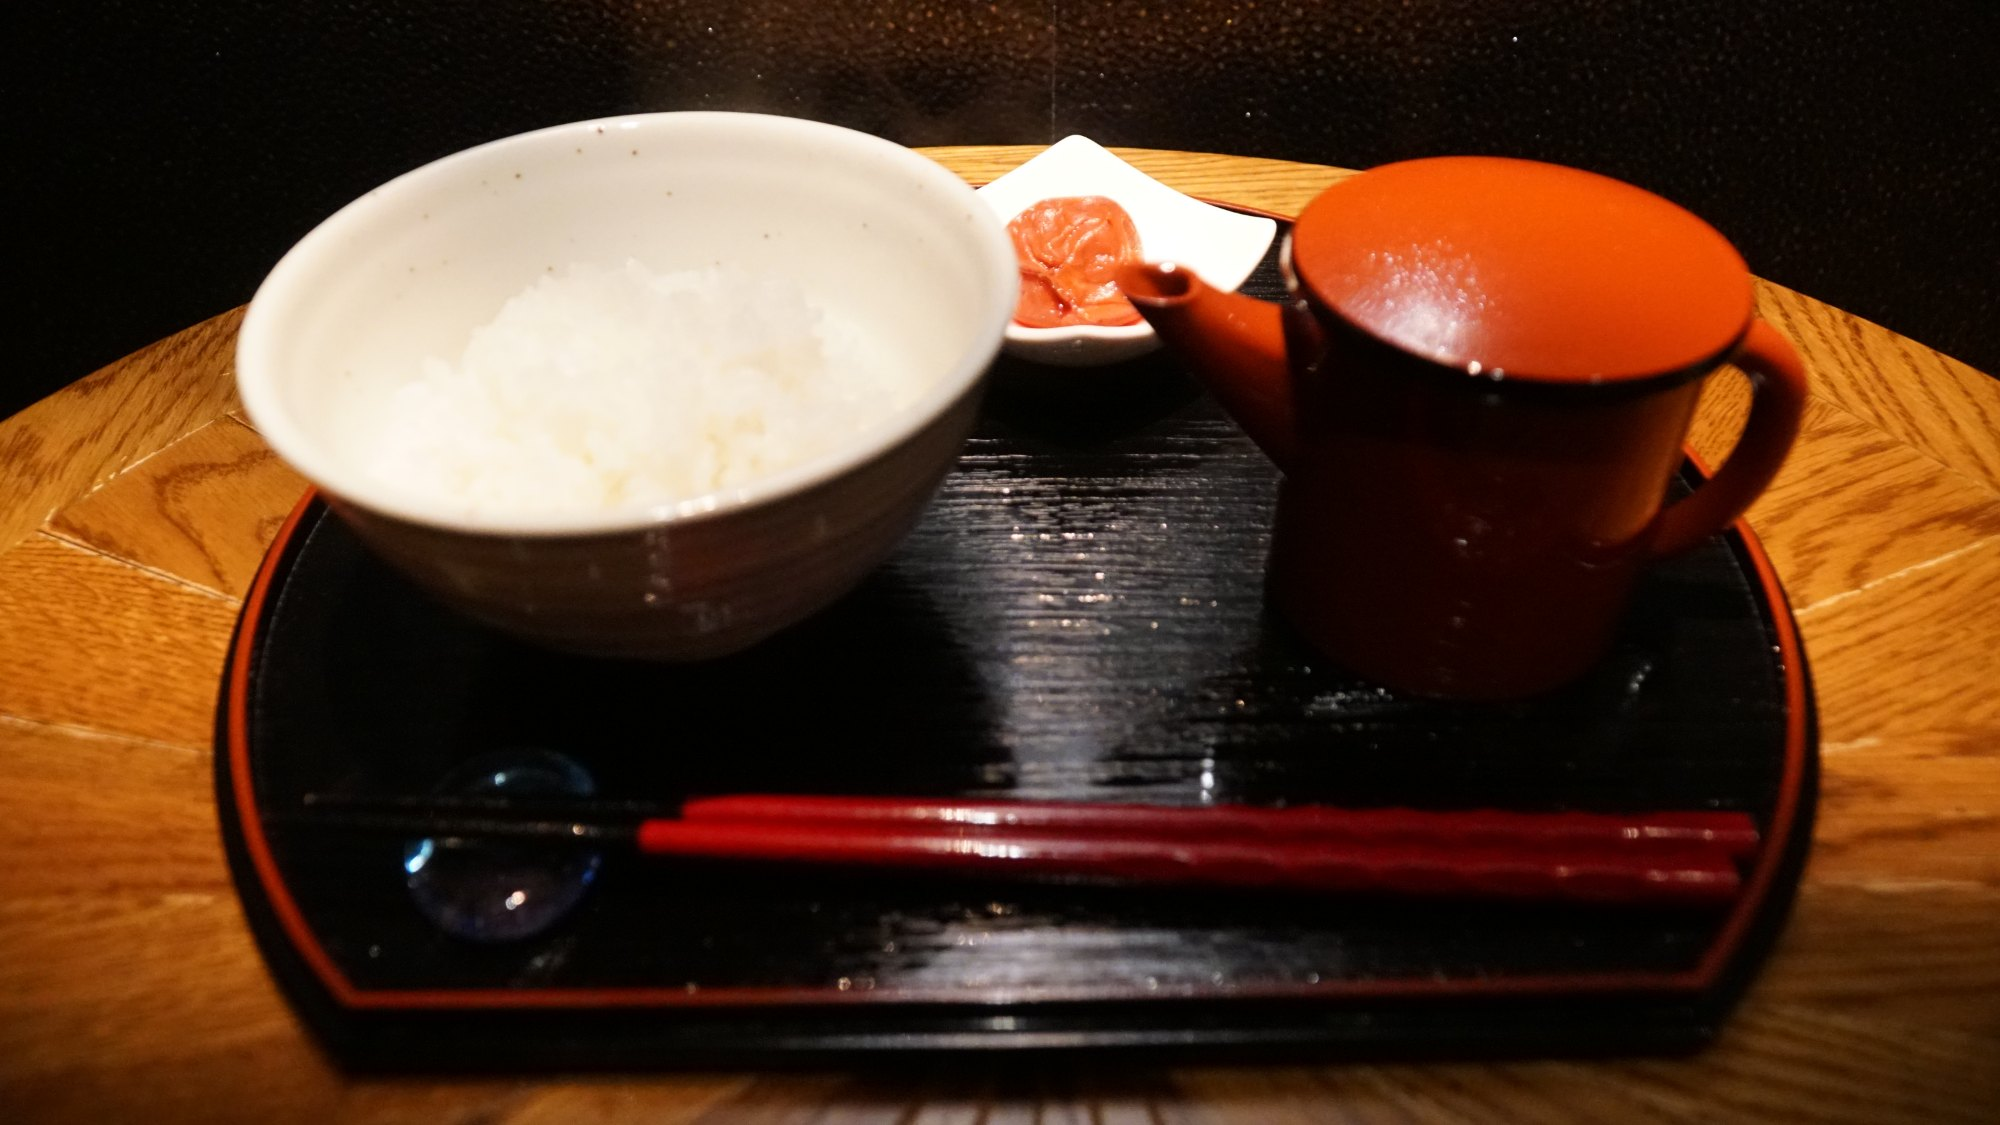
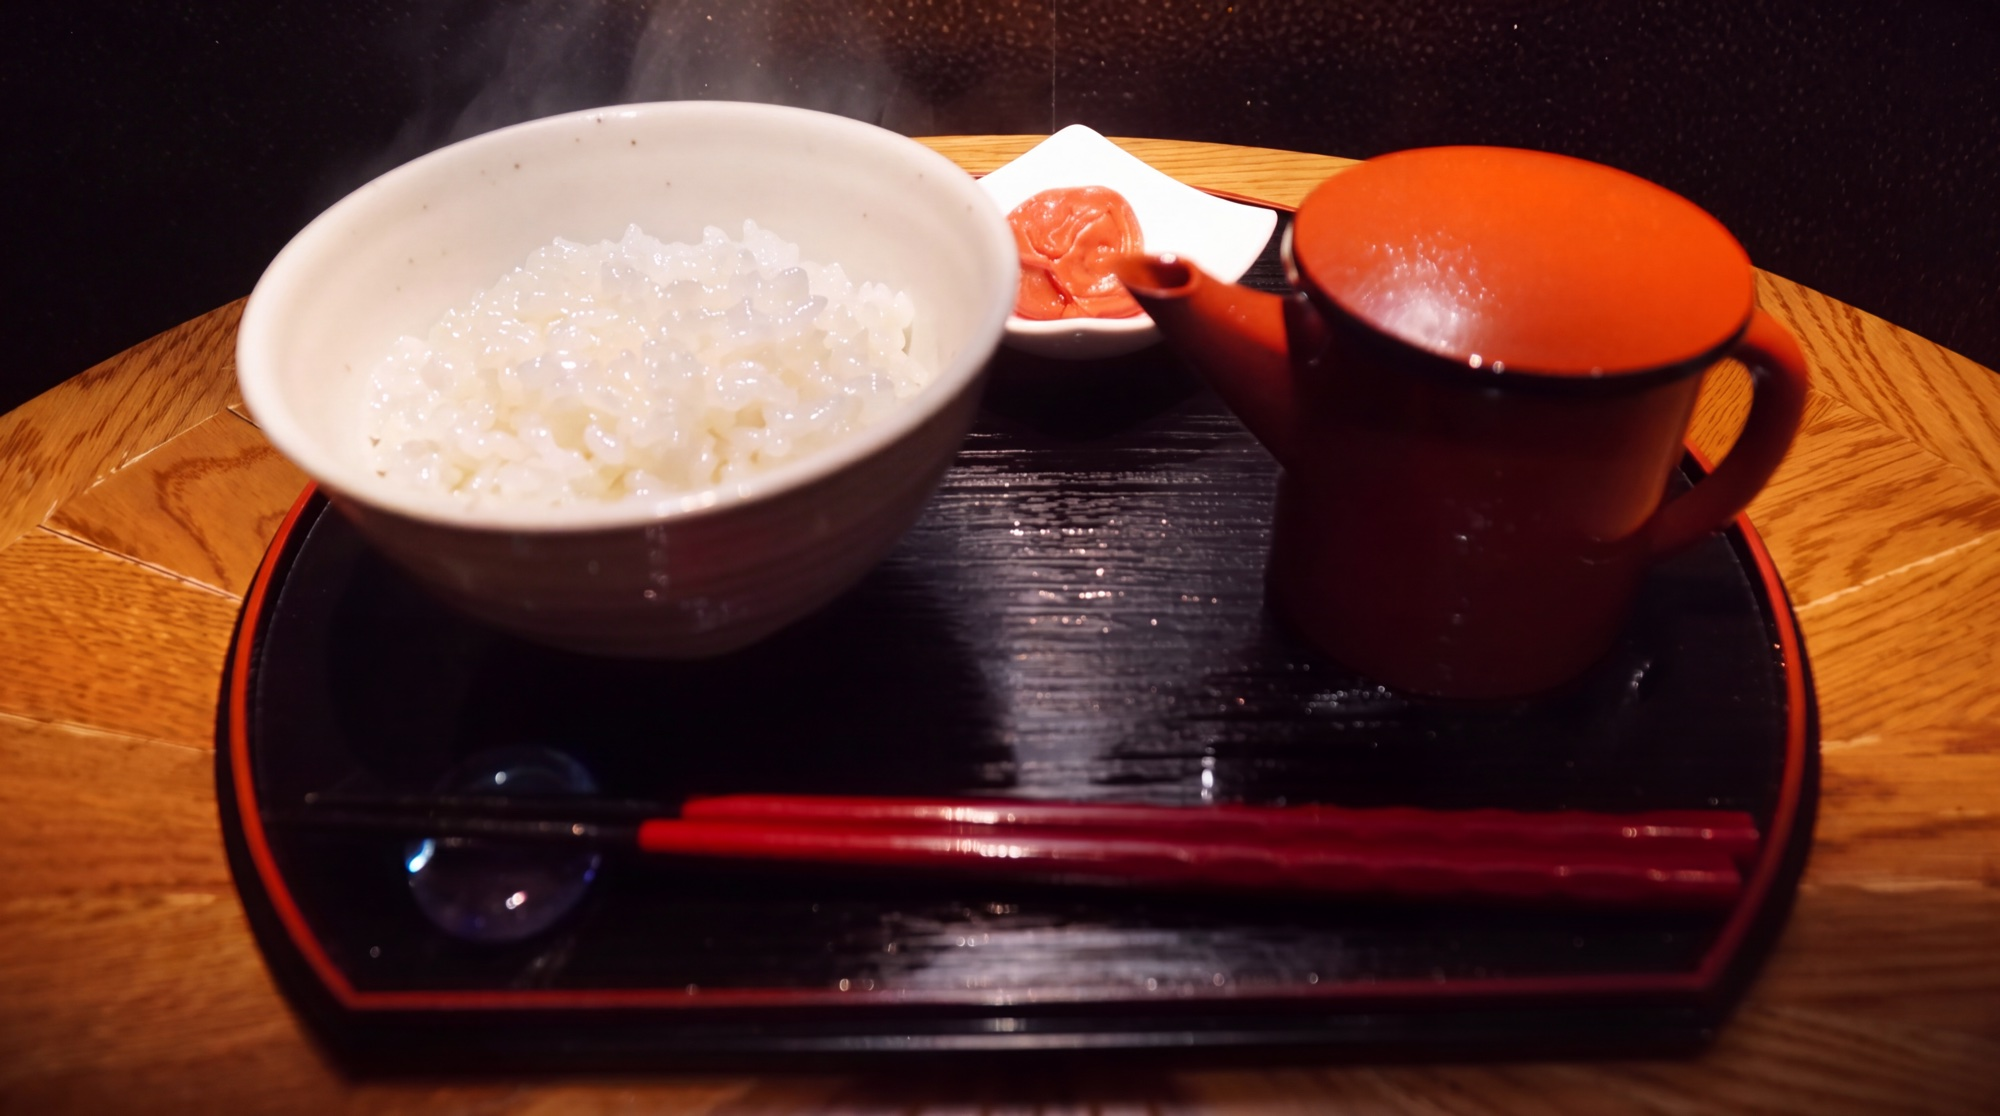
content: 四 (RIZ ET SOUPE) の写真をお膳と汁を注ぐ 2 枚に差し替え
- najila_ozen (お膳: ご飯・汁の器・梅干し・箸) → najila_shiru1 (湯気の立つご飯に汁を注ぐ) の順にスライドショー
- 元 PNG を長辺 2000px の JPEG に縮小 (原寸は tmp/najila_top/、git 未追跡)
- alt (ja/en) を新しい写真に合わせ、verify-dist は壱・四の両方でスライドショーが付くことを検査

Claude-Session: https://claude.ai/code/session_01S1n2sBWrzgejBofaK3SGWJ

diff --git a/src/assets/images.ts b/src/assets/images.ts
@@ -7,6 +7,7 @@ import concept2 from './images/chapters/concept-2.jpg';
 import sake from './images/chapters/sake.jpg';
 import obanzai from './images/chapters/obanzai.jpg';
 import riz from './images/chapters/riz.jpg';
+import riz2 from './images/chapters/riz-2.jpg';
 import accessBg from './images/access/background.jpg';
 
 export interface SiteImage {
@@ -38,8 +39,11 @@ export const images = {
     sake: [{ src: sake, alt: imageAlts.sake }],
     /** obanzai_smp — 仮写真。正式な写真に差し替え予定 (ja.ts の chapters.obanzai.note も一緒に外す) */
     obanzai: [{ src: obanzai, alt: imageAlts.obanzai }],
-    /** najila_top7 — 炊きあがったご飯と汁 */
-    riz: [{ src: riz, alt: imageAlts.riz }],
+    /** najila_ozen — お膳 (ご飯・汁・梅干し) → najila_shiru1 — ご飯に汁を注ぐ (いずれも長辺 2000px に縮小) */
+    riz: [
+      { src: riz, alt: imageAlts.riz },
+      { src: riz2, alt: imageAlts.riz2 },
+    ],
   },
   /** najila_map1 — ACCÈS の背景 */
   access: { src: accessBg },

diff --git a/src/assets/alts.ts b/src/assets/alts.ts
@@ -9,5 +9,6 @@ export const imageAlts = {
   concept2: { ja: '釜の中の炊きたてのご飯と杓文字', en: 'Freshly cooked rice in the pot with a wooden rice paddle' },
   sake: { ja: 'カウンターに置かれたグラスの酒', en: 'A glass of sake set on the counter' },
   obanzai: { ja: '小鉢に盛られたおばんざい', en: 'Obanzai side dishes served in small bowls' },
-  riz: { ja: '釜で炊きあがったご飯と備え付けの汁', en: 'Freshly cooked pot rice with the accompanying soup' },
+  riz: { ja: 'お膳に揃えた炊きたてのご飯と汁、梅干し', en: 'A tray set with freshly cooked rice, a pot of soup and a pickled plum' },
+  riz2: { ja: '湯気の立つご飯に汁を注ぐ', en: 'Soup being poured over a bowl of steaming rice' },
 } as const satisfies Record<string, AltText>;
